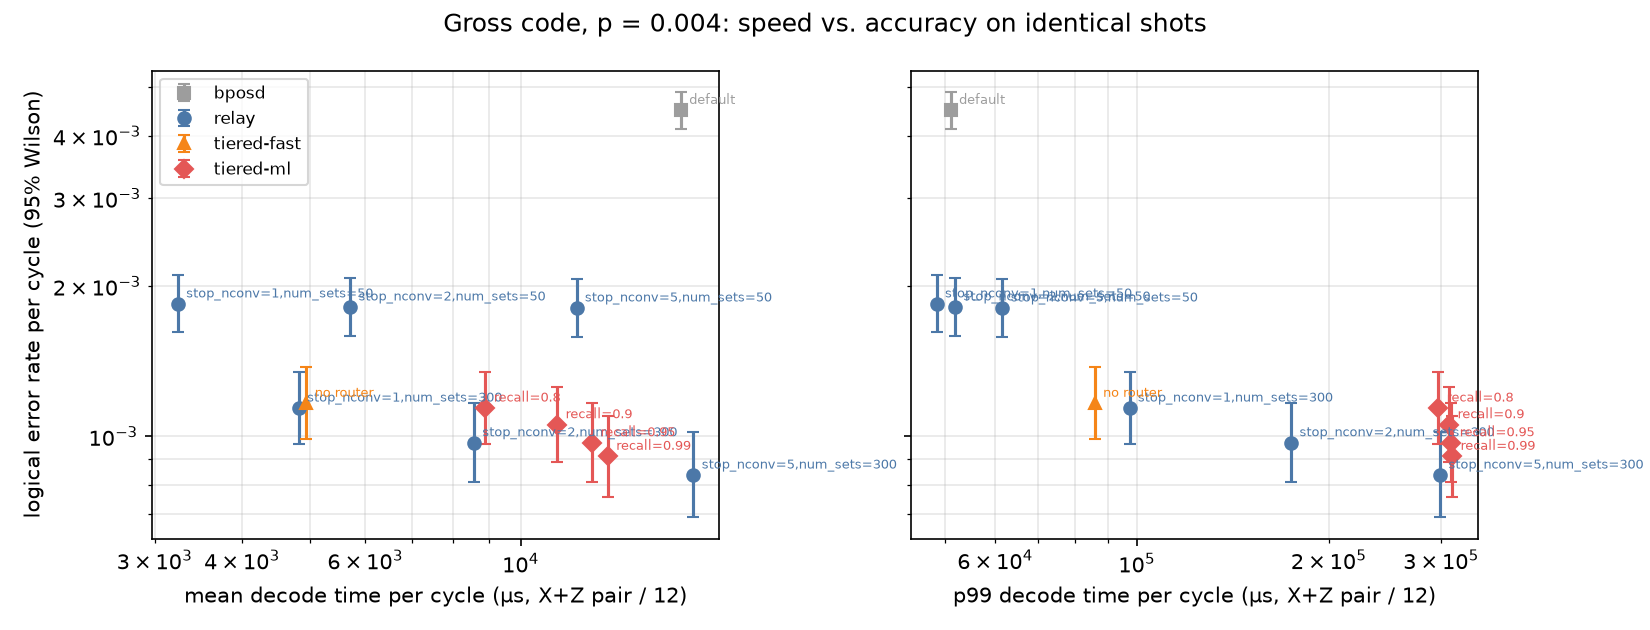
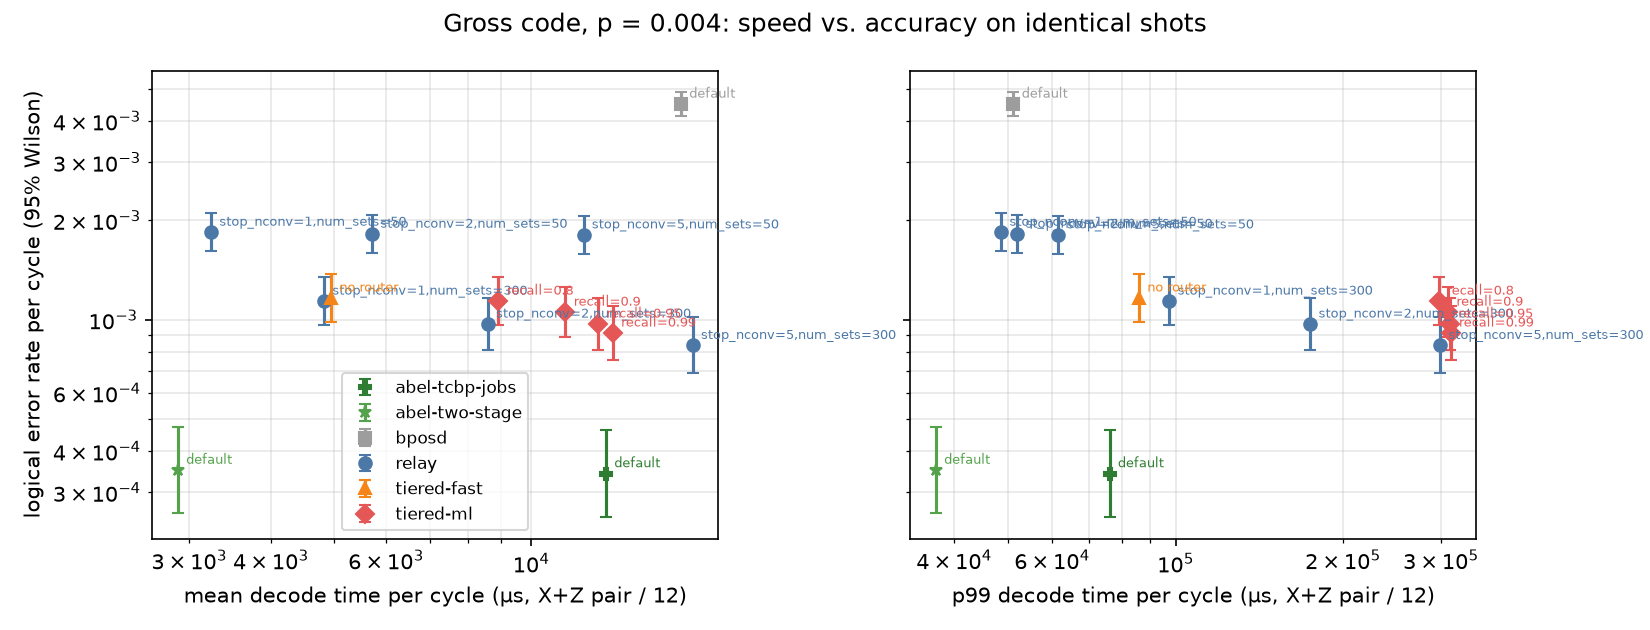
Option B: TCBP-JOBS timed in shared harness against relay-BP trade-off curve

diff --git a/challenge-1-ml-decoder-kit/results/optionB_analysis.md b/challenge-1-ml-decoder-kit/results/optionB_analysis.md
@@ -1,0 +1,85 @@
+# Option B: the team's TCBP-JOBS decoder against relay-BP's whole trade-off curve
+
+The team's decoders (branch `develop/Abel`) were timed in our harness, unchanged, under exactly
+the rules used for relay-BP's curve:
+- the same cached seed-1 shots: p=0.004 at 10,000 per basis, p=0.005 at the first 3,000;
+- Apple M4, 4 worker processes, **one thread per shot** (`NUMBA_NUM_THREADS=1`);
+- timing covers the `decode()` call only, after numba compilation;
+- 95% Wilson intervals, rates per cycle.
+
+Abel's Kaggle shots are the same seed-1 shots as ours. That was checked bit for bit, so NVIDIA's
+own CUDA-Q TCBP-JOBS (41 failed pairs at p=0.004) is on the same shots as well.
+
+## Headline
+
+**The two-stage TCBP-JOBS decoder beats every relay-BP setting on accuracy and speed, at both
+error rates, single-threaded.**
+
+![p=0.004](pareto_p0.004.png)
+![p=0.005](pareto_p0.005.png)
+
+### p = 0.004 (10,000 pairs)
+
+| decoder | failed pairs | per cycle [95% CI] | mean | median | p99 | p99.9 |
+|---|---|---|---|---|---|---|
+| **TCBP-JOBS two-stage** | **42** | **3.5e-4** [2.6, 4.7] | **34.6 ms** | 15.8 ms | **445 ms** | 1.01 s |
+| TCBP-JOBS full | 41 | 3.4e-4 [2.5, 4.6] | 156 ms | 92 ms | 913 ms | 1.64 s |
+| NVIDIA CUDA-Q TCBP-JOBS (Kaggle T4, Abel) | 41 | 3.4e-4 | (GPU, not comparable) | | | |
+| relay `stop_nconv=5` (default) | 100 | 8.4e-4 [6.9, 10.2] | 212 ms | 71 ms | 3.59 s | 3.83 s |
+| relay `stop_nconv=2` | 116 | 9.7e-4 [8.1, 11.7] | 103 ms | 24 ms | 2.10 s | 3.62 s |
+| relay `stop_nconv=1` | 136 | 1.14e-3 [0.96, 1.35] | 58 ms | 9 ms | 1.17 s | 3.42 s |
+| relay `stop_nconv=1, num_sets=50` (fastest) | 219 | 1.84e-3 | 38.9 ms | 9.5 ms | 583 ms | 673 ms |
+| BP-OSD | 527 | 4.5e-3 | 203 ms | 222 ms | 613 ms | 710 ms |
+
+- Against relay-BP's default: **2.4× fewer errors at 6.1× less mean time and 8× lower p99.**
+- Against relay-BP's *fastest* setting: still faster (34.6 vs 38.9 ms), with 5.2× fewer errors
+  and lower p99.
+- The error bars do not overlap any relay-BP point.
+
+### p = 0.005 (3,000 pairs)
+
+| decoder | failed pairs | per cycle [95% CI] | mean | median | p99 |
+|---|---|---|---|---|---|
+| **TCBP-JOBS two-stage** | **107** | **3.0e-3** [2.5, 3.6] | **144 ms** | 27 ms | 1.25 s |
+| TCBP-JOBS full | 98 | 2.8e-3 [2.3, 3.4] | 399 ms | 286 ms | 1.68 s |
+| relay `stop_nconv=2` (best relay accuracy) | 244 | 7.0e-3 [6.2, 8.0] | 587 ms | 99 ms | 3.97 s |
+| relay `stop_nconv=5` (default) | 249 | 7.2e-3 [6.4, 8.1] | 992 ms | 288 ms | 5.35 s |
+| relay `stop_nconv=1, num_sets=50` (fastest) | 474 | 1.42e-2 | 166 ms | 38 ms | 897 ms |
+
+- Against relay-BP's best setting: **2.3× fewer errors at 4.1× less mean time and 3.2× lower p99.**
+- Only relay-BP's fastest setting has a lower p99 (0.90 vs 1.25 s), and it makes 4.4× more errors.
+
+## Consistency checks
+- Our runs reproduce Abel's own counts on these shots (two-stage 42, full 41 at p=0.004), and
+  match NVIDIA's code (41).
+- Our single-thread means (two-stage 34.6 ms, full 156 ms at p=0.004) are close to Abel's
+  single-thread measurements on 300 pairs (31.9 and 134 ms) on a different Apple chip.
+- The two-stage threshold (τ = 15) was set by Abel on these test shots and then checked on
+  fresh shots (seed 21): it holds (`README_ABEL.md`). It is not tuned on our numbers here.
+
+## Caveats for the presentation
+- These are CPU timings (`decode()` call only), not hardware latency. With 12 threads, Abel
+  measured two-stage at 18.5 ms.
+- The NVIDIA GPU number (21 ms per pair on a T4) used `decode_batch` with `bp_batch_size=1`
+  (the run printed a warning), so the GPU decoded shots one at a time. It is not a measure
+  of what NVIDIA's decoder can do with batching or on their GB200 hardware.
+- p=0.005 uses 3,000 shots per basis. The gaps are many standard errors wide, so this is enough.
+- Environment note: with torch installed, numba must use `NUMBA_THREADING_LAYER=workqueue`
+  (a duplicate OpenMP runtime otherwise aborts). `bench/run_decoder.py` sets it automatically.
+
+## Where our own work fits
+- **relay-BP's trade-off curve** (Phase 1) is what makes the claim "beats *every* relay-BP
+  setting" possible. Without it, the comparison is only against the default.
+- **The tiered relay-BP gating** (Phase 1 and Option A) is a negative result. A learned per-shot
+  stopping rule for relay-BP reaches at best relay `stop_nconv=2`. Even a perfect router
+  (7.0e-4 at 65 ms) stays behind TCBP-JOBS two-stage (3.5e-4 at 35 ms).
+- Two findings with no ML involved:
+  - relay `stop_nconv=2` matches the default's accuracy at half the cost;
+  - `num_sets` must stay large.
+
+Reproduce (from the kit directory, with a checkout of `develop/Abel` as `ABEL_KIT`):
+
+    export ABEL_KIT=/path/to/abel-checkout/challenge-1-ml-decoder-kit
+    python -m bench.run_decoder --decoder abel-two-stage --p 0.004 --shots 10000 --workers 4
+    python -m bench.run_decoder --decoder abel-tcbp-jobs --p 0.004 --shots 10000 --workers 4
+    python -m bench.pareto --p 0.004

diff --git a/TEAM_README.md b/TEAM_README.md
@@ -1,5 +1,16 @@
 # Team README: Challenge 1, learned per-shot compute for relay-BP
 
+> **Latest (Option B):** Abel's two-stage TCBP-JOBS decoder was timed in this harness:
+> single thread, same shots as relay-BP's whole trade-off curve. It **beats every relay-BP
+> setting on accuracy and speed**:
+> - p=0.004: 3.5e-4 at 35 ms, vs. relay-BP's default 8.4e-4 at 212 ms;
+> - p=0.005: 3.0e-3 at 144 ms, vs. relay-BP's best 7.0e-3 at 587 ms.
+>
+> See [`results/optionB_analysis.md`](challenge-1-ml-decoder-kit/results/optionB_analysis.md).
+> Our tiered relay-BP router (below, and
+> [`results/optionA_analysis.md`](challenge-1-ml-decoder-kit/results/optionA_analysis.md)) is
+> a supporting negative result.
+
 Status as of Saturday evening. This is the place to catch up: what we built, what we
 found, and what comes next. Branch: `develop/abdullah`.
 
